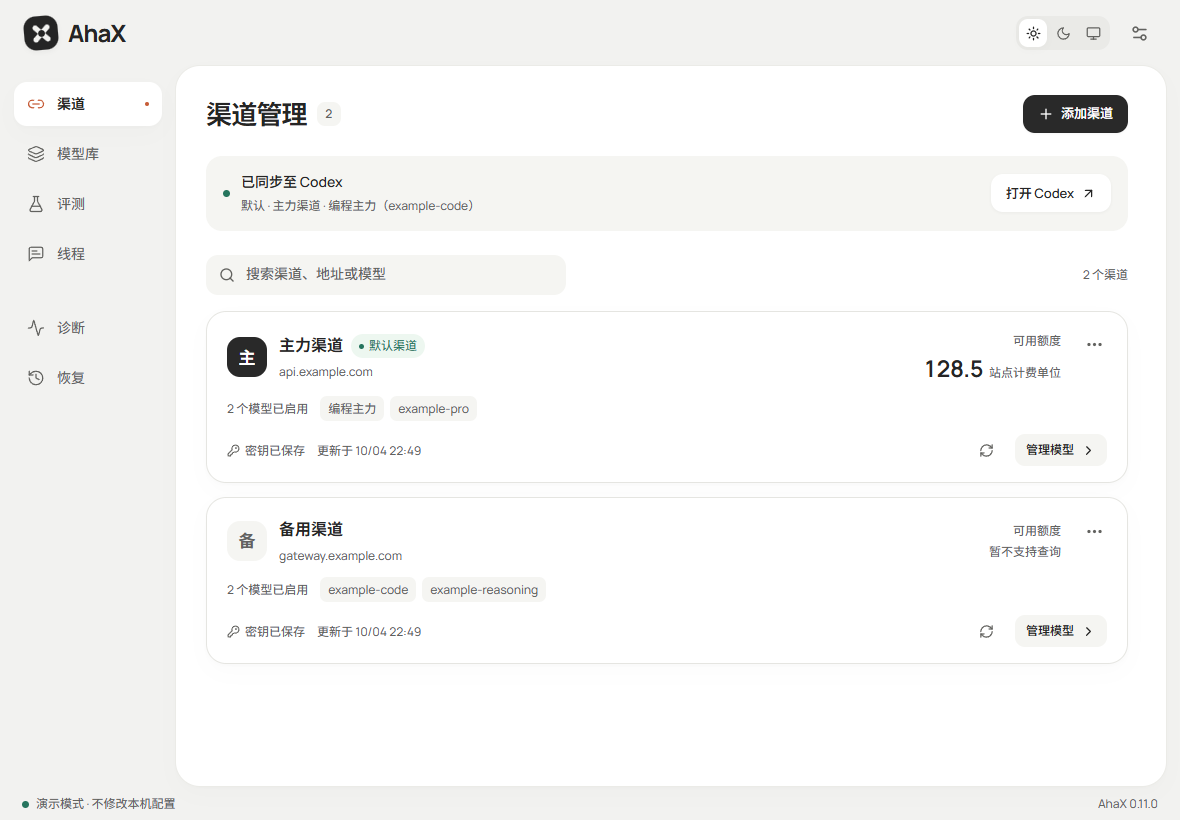
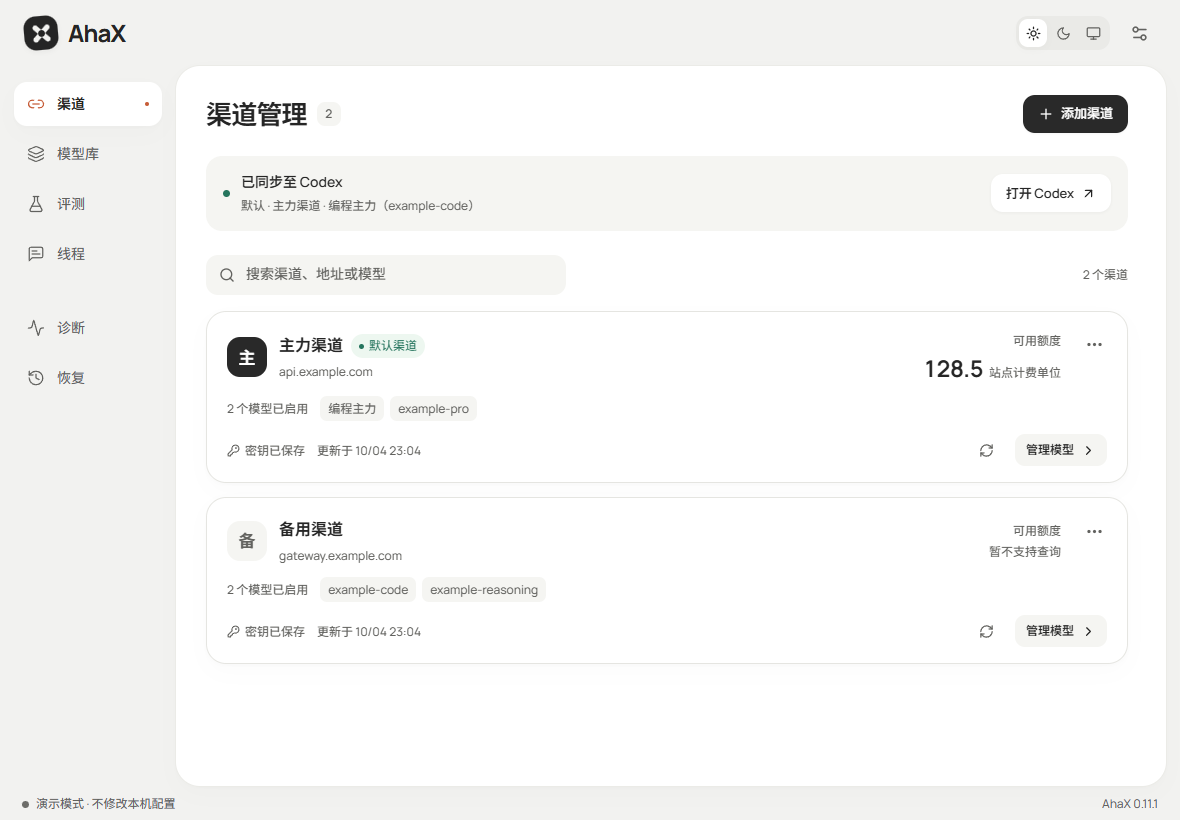
test: record published modern interface verification

diff --git a/docs/validation/0.11.1.md b/docs/validation/0.11.1.md
@@ -10,4 +10,16 @@
 
 ## 公开构建与更新
 
-由 `v0.11.1` 标签工作流重新完成前后端测试、MSVC 打包和签名；公开文件校验及该安装包提取程序的原生验收结果将在发布后补充。本记录不把 0.11.0 的本地 GNU 包当作 0.11.1 公开附件。
+GitHub 工作流 `37211607415` 全部成功，产品提交 `e08a150`，标签 `v0.11.1`。CI TypeScript、53 项前端单元测试、254 项 Rust 测试通过（2 项互操作测试默认忽略），31 项隔离安装迁移检查通过。MSVC 安装包已生成并签署更新签名。
+
+公开 Release 于 **2026 年 10 月 4 日 23:17:01（北京时间）**发布，为仓库 Latest、非草稿、非预发布。四个公开文件的实际大小和 SHA-256 均与 GitHub digest 一致；`latest.json` 版本、下载地址和签名匹配安装包及独立签名文件，SHA256SUMS 一致。记录：`artifacts/published-v111/verification.json`。
+
+公开安装包 11,926,386 字节，SHA-256：
+
+```text
[1 lines of base64/hex data omitted]
+```
+
+实际 0.9.0 更新探针通过公开更新源下载并成功验签 0.11.1，下载字节数与哈希一致，`installed=false`。记录：`artifacts/updater-smoke-mSJNRl/report.json`。没有运行产品安装器或自动替换本机已安装版本。
+
+从上述公开 NSIS 包提取程序后，确认实际运行版本为 0.11.1。六个工作区与数据位置页、两种主题共 14 个原生 WebView 状态的 Axe 与宽度检查全部通过，已人工查看原生线程页和深色数据位置截图。全部 9 组线程与存储验证也再次通过。记录：`artifacts/native-ui-v111-R7r0RC/`、`artifacts/threads-native-aR7Tgi/`。全部使用独立临时目录与合成数据，不读取或修改用户真实线程及凭据。
